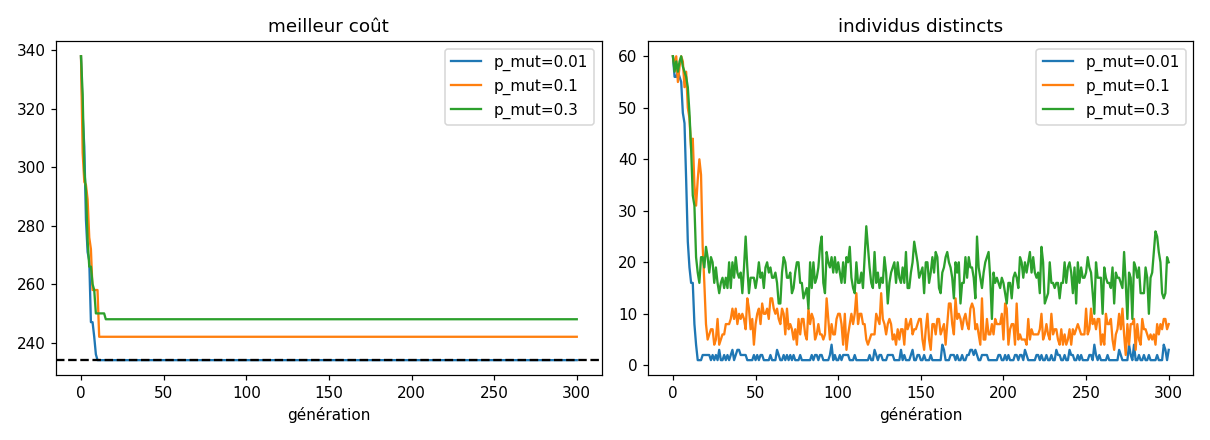
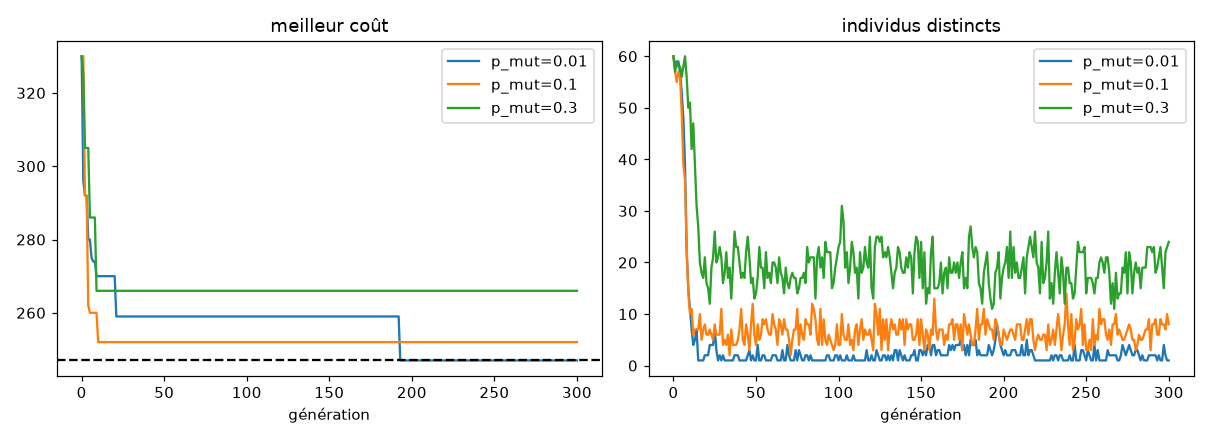
WIP changing card id values

diff --git a/main.py b/main.py
@@ -47,12 +47,15 @@ def journee():
     r = backtracking(csp, mrv=True, fc=True)
     print("  affectation :", {k: v for k, v in sorted(r['solution'].items(), key=lambda kv: kv[1])})
 
-    print("\n17 h : la pause au café (IA contre IA, démonstration)")
-    ia = lambda e: coup_ia(e, 3, eval_2)
-    fin = jouer_partie(ia, ia)
+    print("\n17 h : la pause au café (IA contre IA)")
+
+    ia1 = lambda e: coup_ia(e, 3, eval_2)
+    ia2 = lambda e: coup_ia(e, 5, eval_2)
+
+    fin = jouer_partie(ia1, ia2)
+
     print(fin)
-    print("  gagnant :", fin.gagnant() or "nul")
-    print("\nPour jouer contre l'IA : python main.py jouer")
+    print("Gagnant :", fin.gagnant() or "nul")
 
 
 if __name__ == "__main__":

diff --git a/config.py b/config.py
@@ -1,6 +1,6 @@
 """Configuration commune du projet Médina 2.0."""
 
-NUMEROS_INSCRIPTION = []
+NUMEROS_INSCRIPTION = [14516902,11152162]
 
 G = sum(NUMEROS_INSCRIPTION) % 10000 if NUMEROS_INSCRIPTION else 1234
 

diff --git a/journal_experiences.md b/journal_experiences.md
@@ -1,14 +1,14 @@
 # Journal d'expériences — Médina 2.0
 
-Graine G = 1234  ·  k = 64
+Graine G = 9064  ·  k = 63
 
 > Tableaux et courbes générés automatiquement par `experiences.py`. Voir `ANALYSES.md` pour les interprétations.
 
 ## Partie 1 — La carte
 
-- Graine G = 1234, k = 60 + (G mod 41) = 64
+- Graine G = 9064, k = 60 + (G mod 41) = 63
 - Passages du labyrinthe parfait : 599 (attendu P×Q−1 = 599)
-- Passages après ouverture : 663 (= 599 + 64)
+- Passages après ouverture : 662 (= 599 + 63)
 - Escaliers : 28 cases
 
 ![carte](figures/carte.png)
@@ -17,38 +17,38 @@ Graine G = 1234  ·  k = 64
 
 ### Q6b — Contre-exemples BFS (pas minimal ≠ coût minimal)
 
-35 paires de points d'intérêt sur 132 où BFS est strictement plus cher que le coût uniforme. Exemples :
+33 paires de points d'intérêt sur 132 où BFS est strictement plus cher que le coût uniforme. Exemples :
 
 | trajet | BFS : pas | BFS : coût | UCS : pas | UCS : coût |
 |---|---|---|---|---|
-| 0→1 | 36 | 46 | 40 | 43 |
-| 0→9 | 30 | 33 | 30 | 31 |
-| 1→0 | 36 | 44 | 40 | 41 |
-| 1→4 | 11 | 18 | 11 | 11 |
-| 1→5 | 28 | 35 | 32 | 32 |
+| 0→6 | 36 | 48 | 38 | 39 |
+| 0→11 | 40 | 52 | 40 | 41 |
+| 1→5 | 18 | 28 | 24 | 25 |
+| 2→9 | 56 | 72 | 56 | 62 |
+| 2→10 | 43 | 59 | 43 | 49 |
 
 ### Q7 — DFS vs BFS : labyrinthe parfait (k=0) vs Médina (k>0)
 
 | carte | trajet | pas BFS | pas DFS | coût BFS | coût DFS |
 |---|---|---|---|---|---|
-| parfait k=0 | 0→1 | 96 | 96 | 107 | 107 |
-| parfait k=0 | 9→11 | 188 | 188 | 214 | 214 |
-| Médina k=64 | 0→1 | 36 | 86 | 46 | 99 |
-| Médina k=64 | 9→11 | 38 | 130 | 38 | 144 |
+| parfait k=0 | 0→1 | 96 | 96 | 113 | 113 |
+| parfait k=0 | 9→11 | 138 | 138 | 149 | 149 |
+| Médina k=63 | 0→1 | 28 | 86 | 41 | 102 |
+| Médina k=63 | 9→11 | 62 | 180 | 80 | 206 |
 
 ### Q11 — Trajet Bab Bhar (0) → Mosquée Zitouna (1)
 
 | Méthode | Nombre de pas | Coût | Cases explorées | Optimal en coût ? | Temps (ms) |
 |---|---|---|---|---|---|
-| BFS | 36 | 46 | 318 | non | 1.45 |
-| DFS | 86 | 99 | 107 | non | 0.48 |
-| Coût uniforme | 40 | 43 | 370 | oui | 1.72 |
-| Glouton (Manhattan) | 42 | 45 | 76 | non | 0.35 |
-| A* (h nulle) | 40 | 43 | 370 | oui | 1.74 |
-| A* (Tchebychev) | 40 | 43 | 302 | oui | 1.68 |
-| A* (Euclide) | 40 | 43 | 300 | oui | 1.56 |
-| A* (Manhattan) | 40 | 43 | 290 | oui | 2.63 |
-| A* pondéré (Manhattan, w=2) | 40 | 43 | 111 | oui | 0.59 |
+| BFS | 28 | 41 | 272 | oui | 0.74 |
+| DFS | 86 | 102 | 135 | non | 0.33 |
+| Coût uniforme | 28 | 41 | 361 | oui | 1.03 |
+| Glouton (Manhattan) | 30 | 43 | 40 | non | 0.13 |
+| A* (h nulle) | 28 | 41 | 361 | oui | 1.11 |
+| A* (Tchebychev) | 28 | 41 | 293 | oui | 0.90 |
+| A* (Euclide) | 28 | 41 | 287 | oui | 0.91 |
+| A* (Manhattan) | 28 | 41 | 270 | oui | 0.83 |
+| A* pondéré (Manhattan, w=2) | 28 | 41 | 142 | oui | 0.50 |
 
 ![trajet](figures/trajet_0_1.png)
 
@@ -56,58 +56,58 @@ Graine G = 1234  ·  k = 64
 
 | Méthode | Nombre de pas | Coût | Cases explorées | Optimal en coût ? | Temps (ms) |
 |---|---|---|---|---|---|
-| BFS | 38 | 38 | 500 | oui | 1.29 |
-| DFS | 130 | 144 | 519 | non | 1.20 |
-| Coût uniforme | 38 | 38 | 463 | oui | 1.24 |
-| Glouton (Manhattan) | 50 | 62 | 62 | non | 0.17 |
-| A* (h nulle) | 38 | 38 | 463 | oui | 1.25 |
-| A* (Tchebychev) | 38 | 38 | 287 | oui | 0.83 |
-| A* (Euclide) | 38 | 38 | 250 | oui | 0.72 |
-| A* (Manhattan) | 38 | 38 | 185 | oui | 0.66 |
-| A* pondéré (Manhattan, w=2) | 38 | 46 | 93 | non | 0.29 |
+| BFS | 62 | 80 | 475 | non | 1.28 |
+| DFS | 180 | 206 | 479 | non | 1.15 |
+| Coût uniforme | 72 | 74 | 488 | oui | 1.39 |
+| Glouton (Manhattan) | 62 | 81 | 87 | non | 0.25 |
+| A* (h nulle) | 72 | 74 | 488 | oui | 1.55 |
+| A* (Tchebychev) | 72 | 74 | 378 | oui | 1.17 |
+| A* (Euclide) | 72 | 74 | 361 | oui | 1.14 |
+| A* (Manhattan) | 72 | 74 | 346 | oui | 1.15 |
+| A* pondéré (Manhattan, w=2) | 64 | 77 | 153 | non | 0.48 |
 
 ![trajet](figures/trajet_9_11.png)
 
 ## Partie 3 — Le circuit du guide
 
-### Q12 — Matrice des coûts (132 appels à A*, 57 ms)
+### Q12 — Matrice des coûts (132 appels à A*, 77 ms)
 
 ```
-  0  43  42  64  34  26  43  48  61  31  28  37
- 41   0  10  42  11  32  10  45  36  28  25  18
- 40  10   0  48  14  31  16  44  42  27  24  24
- 62  42  48   0  39  50  30  25  28  41  36  28
- 34  13  16  41   0  25   9  38  35  21  18  17
- 26  34  33  52  25   0  30  47  46  30  27  22
- 43  12  18  32   9  30   0  37  26  30  27   8
- 48  47  46  27  38  47  37   0  35  27  22  35
- 61  38  44  30  35  46  26  35   0  37  41  24
- 31  30  29  43  21  30  30  27  37   0   7  38
- 28  27  26  38  18  27  27  22  41   7   0  35
- 37  20  26  30  17  22   8  35  24  38  35   0
+  0  41  31  47  26  21  39  40  66  39  26  41
+ 39   0  10  19  21  25  11  16  43  66  53  15
+ 29  10   0  25  11  18  17  22  49  62  49  21
+ 45  19  25   0  36  31  15   9  41  59  46  19
+ 26  23  13  38   0  15  30  35  62  59  46  34
+ 21  27  20  33  15   0  18  37  48  54  41  20
+ 39  13  19  17  30  18   0  23  32  72  59   4
+ 40  18  24  11  35  37  23   0  36  54  41  27
+ 66  45  51  43  62  48  32  36   0  80  67  28
+ 39  68  64  61  59  54  72  54  80   0  13  74
+ 26  55  51  48  46  41  59  41  67  13   0  61
+ 41  17  23  21  34  20   4  27  28  74  61   0
 ```
 
 Paires (i,j) asymétriques : 27/66. Relation vérifiée `M[i][j] − M[j][i] = cout(j) − cout(i)` pour toutes les paires : **True**.
 
 ### Q13-Q14 — Référence
 
-- Plus proche voisin : [0, 5, 11, 6, 4, 1, 2, 10, 9, 7, 3, 8], coût 262
-- Held-Karp : coût **234**, tournée [0, 9, 10, 7, 3, 8, 11, 6, 1, 2, 4, 5], 11264 états, 30 ms
+- Plus proche voisin : [0, 5, 4, 2, 1, 6, 11, 3, 7, 8, 10, 9], coût 259
+- Held-Karp : coût **247**, tournée [0, 10, 9, 7, 3, 8, 11, 6, 1, 2, 4, 5], 11264 états, 38 ms
 
 ### Q15 — Descente 2-opt depuis 10 tournées aléatoires
 
-Coûts atteints : [236, 234, 236, 234, 234, 236, 256, 234, 234, 236] (optimum 234) → optimum atteint 5/10 fois.
+Coûts atteints : [252, 256, 247, 247, 256, 256, 247, 256, 253, 247] (optimum 247) → optimum atteint 4/10 fois.
 
 ### Q16 — Recuit simulé (T0=50, palier=50, 10 graines)
 
 | voisinage | α | itérations | meilleur coût | coût moyen | pire coût |
 |---|---|---|---|---|---|
-| échange | 0.8 | 1951 | 234 | 249.7 | 257 |
-| échange | 0.95 | 8351 | 234 | 247.0 | 257 |
-| échange | 0.995 | 85001 | 234 | 234.8 | 242 |
-| 2-opt | 0.8 | 1951 | 234 | 234.2 | 236 |
-| 2-opt | 0.95 | 8351 | 234 | 234.0 | 234 |
-| 2-opt | 0.995 | 85001 | 234 | 234.0 | 234 |
+| échange | 0.8 | 1951 | 247 | 257.3 | 271 |
+| échange | 0.95 | 8351 | 247 | 250.7 | 268 |
+| échange | 0.995 | 85001 | 247 | 247.0 | 247 |
+| 2-opt | 0.8 | 1951 | 247 | 249.7 | 256 |
+| 2-opt | 0.95 | 8351 | 247 | 247.0 | 247 |
+| 2-opt | 0.995 | 85001 | 247 | 247.0 | 247 |
 
 ![recuit](figures/recuit.png)
 
@@ -115,9 +115,9 @@ Coûts atteints : [236, 234, 236, 234, 234, 236, 256, 234, 234, 236] (optimum 23
 
 | p_mut | meilleur coût | coût moyen | pire coût | diversité finale (graine G) |
 |---|---|---|---|---|
-| 0.01 | 234 | 248.4 | 260 | 2 |
-| 0.1 | 234 | 243.6 | 252 | 10 |
-| 0.3 | 234 | 245.2 | 256 | 21 |
+| 0.01 | 247 | 255.8 | 285 | 1 |
+| 0.1 | 247 | 253.7 | 272 | 7 |
+| 0.3 | 247 | 258.8 | 268 | 20 |
 
 ![ag](figures/ag.png)
 
@@ -125,11 +125,11 @@ Coûts atteints : [236, 234, 236, 234, 234, 236, 256, 234, 234, 236] (optimum 23
 
 | Méthode | Écart moyen (%) | Meilleur écart (%) | Pire écart (%) | Temps moyen (ms) |
 |---|---|---|---|---|
-| Plus proche voisin | 11.97 | 11.97 | 11.97 | 0.0 |
-| Descente 2-opt (départ aléatoire) | 1.71 | 0.00 | 5.98 | 0.7 |
-| Recuit simulé (2-opt, α=0.95) | 0.00 | 0.00 | 0.00 | 30.6 |
-| Algorithme génétique (p_mut=0.1) | 4.10 | 0.00 | 7.69 | 189.0 |
-| Held-Karp | 0.00 | 0.00 | 0.00 | 39.1 |
+| Plus proche voisin | 4.86 | 4.86 | 4.86 | 0.0 |
+| Descente 2-opt (départ aléatoire) | 2.23 | 0.00 | 3.64 | 0.9 |
+| Recuit simulé (échange, α=0.995) | 0.00 | 0.00 | 0.00 | 509.6 |
+| Algorithme génétique (p_mut=0.1) | 2.71 | 0.00 | 10.12 | 267.0 |
+| Held-Karp | 0.00 | 0.00 | 0.00 | 37.4 |
 
 ## Partie 4 — Le souk réaménagé
 
@@ -141,11 +141,11 @@ Coûts atteints : [236, 234, 236, 234, 234, 236, 256, 234, 234, 236] (optimum 23
 
 | Variante | Nœuds (1re sol.) | Retours (1re sol.) | Temps (ms) | Nœuds (toutes) | Retours (toutes) |
 |---|---|---|---|---|---|
-| Backtracking simple | 10 | 1 | 0.19 | 260 | 93 |
-| + MRV et degré | 9 | 0 | 0.65 | 344 | 111 |
-| + forward checking | 9 | 1 | 0.17 | 187 | 93 |
-| + MRV, degré et forward checking | 9 | 0 | 0.56 | 265 | 111 |
-| AC-3 puis MRV, degré et forward checking | 9 | 0 | 0.50 | 265 | 110 |
+| Backtracking simple | 10 | 1 | 0.20 | 260 | 93 |
+| + MRV et degré | 9 | 0 | 0.92 | 344 | 111 |
+| + forward checking | 9 | 1 | 0.35 | 187 | 93 |
+| + MRV, degré et forward checking | 9 | 0 | 0.77 | 265 | 111 |
+| AC-3 puis MRV, degré et forward checking | 9 | 0 | 0.98 | 265 | 110 |
 
 Première solution : {'PA': 1, 'PB': 3, 'CH': 2, 'DI': 7, 'BI': 5, 'TI': 4, 'LI': 8, 'PT': 9}
 
@@ -174,51 +174,38 @@ Position de milieu de partie (8 demi-coups aléatoires, graine G) :
 ```
    0 1 2 3 4
 0  ● · ● ● ●
-1  ● · ● ● ●
-2  ● ● · · ○
+1  ● ● ● ● ·
+2  ● · · ○ ●
 3  ○ ○ ○ ○ ○
-4  ○ ○ ○ ○ ·
+4  ○ ○ ○ · ○
 ```
 
 ### Q26-Q27 — Nœuds explorés (eval_1)
 
 | Profondeur | Nœuds Minimax | Nœuds alpha-bêta | Nœuds alpha-bêta + ordre (Q27) | Temps alpha-bêta (ms) |
 |---|---|---|---|---|
-| 1 | 6 | 6 | 6 | 0.0 |
-| 2 | 43 | 18 | 18 | 0.2 |
-| 3 | 286 | 60 | 56 | 0.5 |
-| 4 | 2199 | 173 | 163 | 1.3 |
-| 5 | 13950 | 482 | 420 | 3.9 |
+| 1 | 7 | 7 | 7 | 0.1 |
+| 2 | 59 | 22 | 22 | 0.4 |
+| 3 | 430 | 75 | 67 | 1.0 |
+| 4 | 3467 | 306 | 254 | 3.3 |
+| 5 | 24248 | 853 | 668 | 10.2 |
 
 Vérification : alpha-bêta = Minimax (profondeur 3, eval_1 et eval_2) sur 20/20 positions.
 
-### Q28 — Tournoi eval_1 vs eval_2 (10 parties, profondeur 3, 10 s)
+### Q28 — Tournoi eval_1 vs eval_2 (10 parties, profondeur 3, 7 s)
 
 Score : **eval_1 = 5.0**, **eval_2 = 5.0**
 
 | partie | Blancs | résultat | pions eval_2 − eval_1 |
 |---|---|---|---|
 | 1 | eval_1 | nul | 0 |
-| 2 | eval_2 | nul | 0 |
-| 3 | eval_1 | nul | 1 |
-| 4 | eval_2 | nul | 1 |
-| 5 | eval_1 | nul | 1 |
-| 6 | eval_2 | nul | 0 |
-| 7 | eval_1 | nul | 2 |
+| 2 | eval_2 | nul | 1 |
+| 3 | eval_1 | nul | 2 |
+| 4 | eval_2 | nul | 0 |
+| 5 | eval_1 | nul | 2 |
+| 6 | eval_2 | nul | 1 |
+| 7 | eval_1 | nul | 0 |
 | 8 | eval_2 | nul | 0 |
-| 9 | eval_1 | nul | 1 |
+| 9 | eval_1 | nul | 2 |
 | 10 | eval_2 | nul | 0 |
-
-## Bonus — Branch and Bound vs Held-Karp
-
-| n | HK temps (ms) | HK mémoire (Mo) | B&B temps (ms) | B&B mémoire (Mo) | B&B nœuds | HK états |
-|---|---|---|---|---|---|---|
-| 6 | 0.6 | 0.01 | 1.0 | 0.004 | 64 | 80 |
-| 8 | 3.0 | 0.08 | 4.1 | 0.006 | 254 | 448 |
-| 10 | 19.3 | 0.54 | 8.1 | 0.008 | 432 | 2304 |
-| 12 | 133.7 | 3.76 | 75.8 | 0.010 | 3742 | 11264 |
-| 14 | 663.7 | 16.52 | 288.7 | 0.012 | 12302 | 53248 |
-| 16 | 3926.5 | 71.29 | 488.0 | 0.014 | 18674 | 245760 |
-
-![bonus](figures/bonus.png)
 
